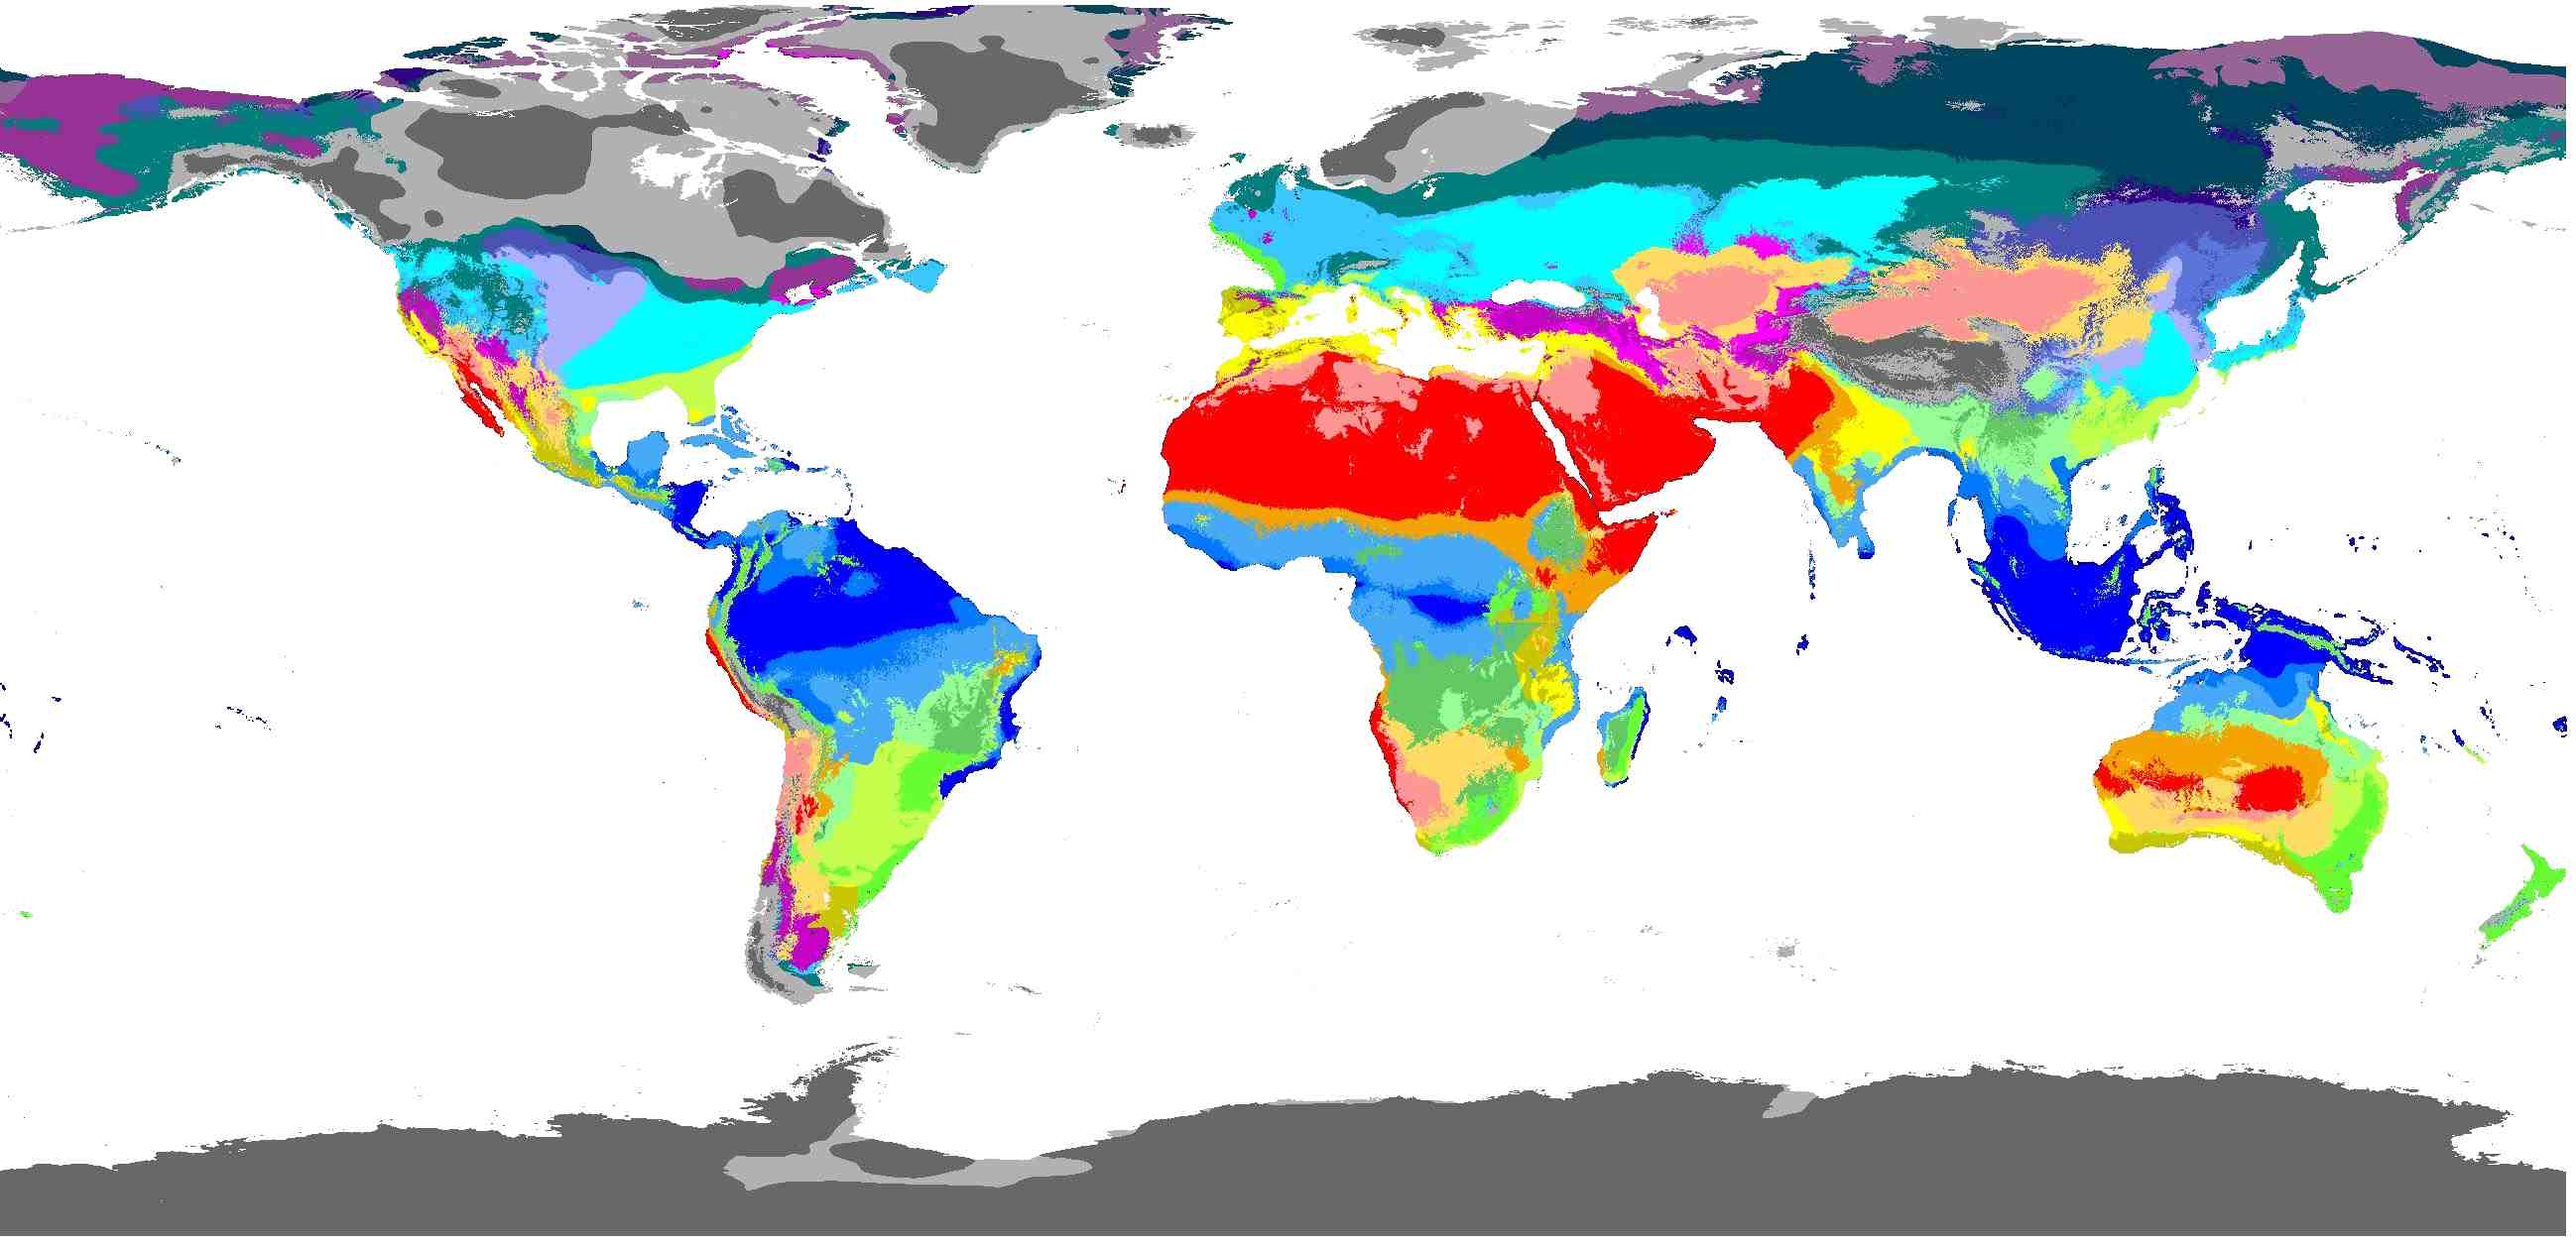
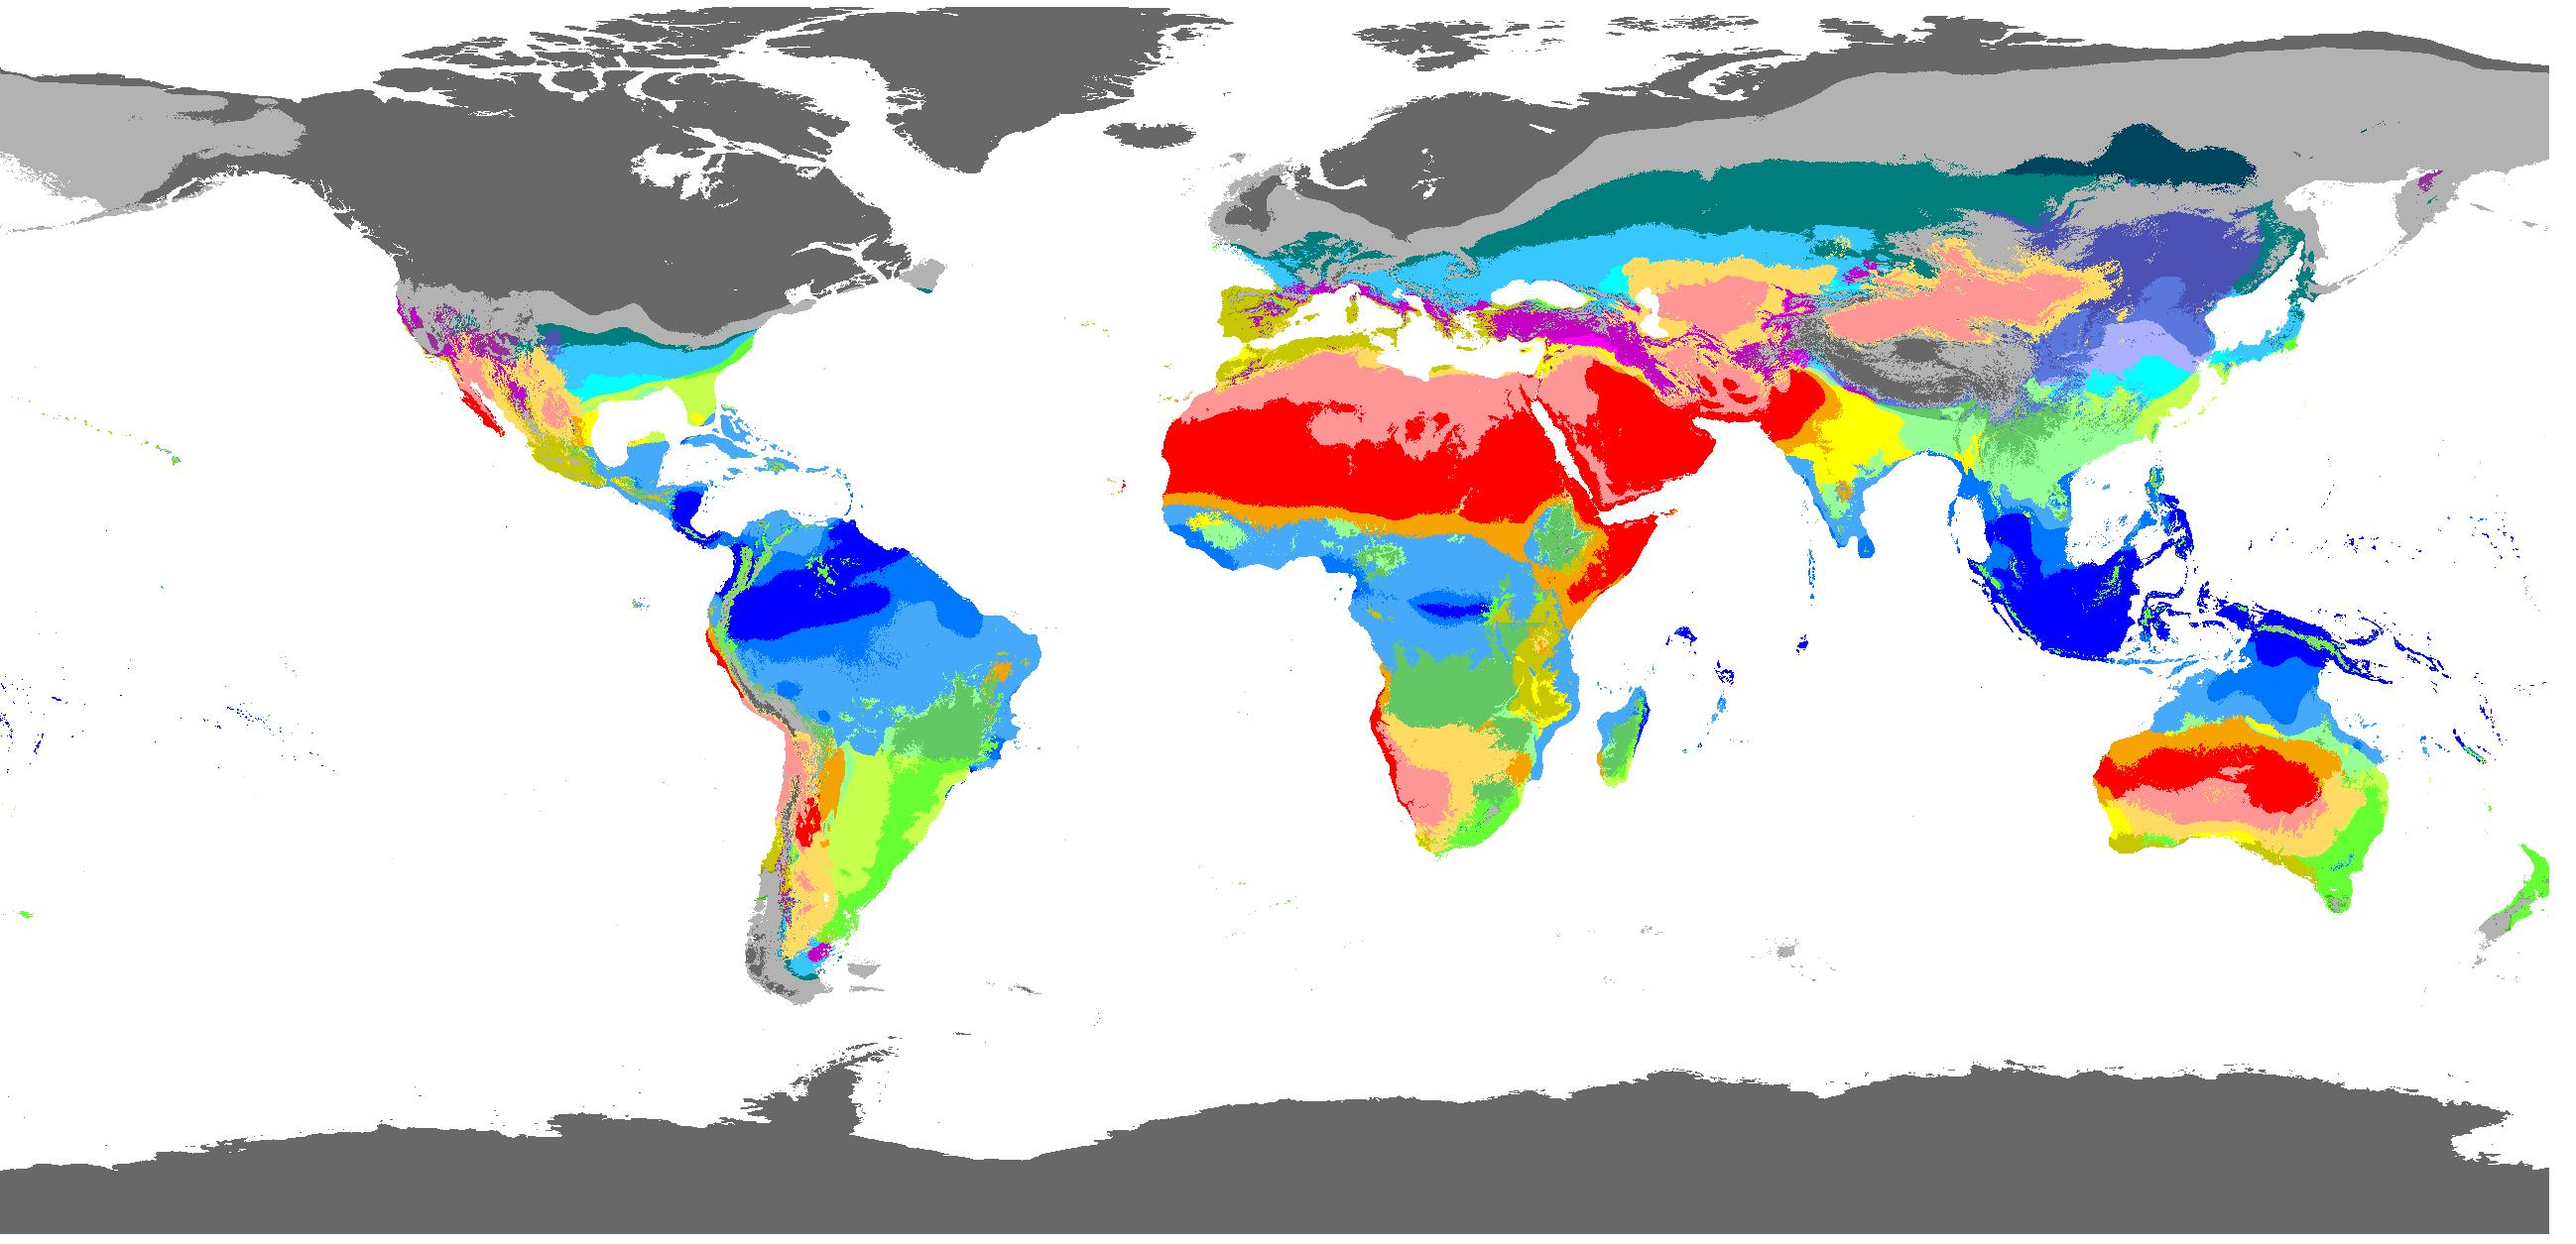
use PMIP3_MPI_ESM_P for LGM example

diff --git a/KoppenClimate/Program.cs b/KoppenClimate/Program.cs
@@ -24,7 +24,8 @@ namespace KoppenClimate
         int[] Pthreshold; // 2×MAT + 28 if > 70 % of precipitation falls in summer, otherwise Pthreshold = 2×MAT + 14.Summer(winter) is the six - month period that is warmer(colder) between April - September and October-March.
         int[] hPsummer;
 
-        Boolean PMIP3 = true;
+        Boolean PMIP3_CNRM_CM5 = false;
+        Boolean PMIP3_MPI_ESM_P = true;
 
         static void Main(string[] args)
         {
@@ -35,12 +36,17 @@ namespace KoppenClimate
             String precsFileNames = @"data\CHELSA\CHELSA_prec_";
             String outFileName = "tmp_CHELSA.tif";
 
-            if (koppenGeiger.PMIP3)
+            if (koppenGeiger.PMIP3_CNRM_CM5)
             {
-                tmeansFileNames = @"data\PMIP3\CHELSA_PMIP_CNRM-CM5_tmean_";
-                precsFileNames = @"data\PMIP3\CHELSA_PMIP_CNRM-CM5_prec_";
+                tmeansFileNames = @"data\PMIP3\PMIP3_CNRM_CM5\CHELSA_PMIP_CNRM-CM5_tmean_";
+                precsFileNames = @"data\PMIP3\PMIP3_CNRM_CM5\CHELSA_PMIP_CNRM-CM5_prec_";
                 outFileName = "tmp_PMIP3.tif";
 
+            } else if (koppenGeiger.PMIP3_MPI_ESM_P)
+            {
+                tmeansFileNames = @"data\PMIP3\PMIP3_MPI_ESM_P\CHELSA_PMIP_MPI-ESM-P_tmean_";
+                precsFileNames = @"data\PMIP3\PMIP3_MPI_ESM_P\CHELSA_PMIP_MPI-ESM-P_prec_";
+                outFileName = "tmp_PMIP3_MPI_ESM_P.tif";
             }
 
             GdalConfiguration.ConfigureGdal();
@@ -512,7 +518,7 @@ namespace KoppenClimate
 
         string getFileNameTemp(string tmeansFileNames, int month)
         {
-            if (PMIP3)
+            if (PMIP3_CNRM_CM5 || PMIP3_MPI_ESM_P)
             {
                 return tmeansFileNames + month + "_1.tif";
             }
@@ -524,7 +530,7 @@ namespace KoppenClimate
 
         private string getFileNamePrec(string precsFileNames, int month)
         {
-            if (PMIP3)
+            if (PMIP3_CNRM_CM5 || PMIP3_MPI_ESM_P)
             {
                 return precsFileNames + month + "_1.tif";
             }
@@ -536,7 +542,7 @@ namespace KoppenClimate
 
     int convertTemp(int temp)
         {
-            if (PMIP3) // Temperatures in Kelvin/10
+            if (PMIP3_CNRM_CM5 || PMIP3_MPI_ESM_P) // Temperatures in Kelvin/10
             {
                 return temp / 10 - 273; ;
             }
@@ -548,7 +554,7 @@ namespace KoppenClimate
 
         short convertPrec(short prec)
         {
-            if (PMIP3) // Precipitation in mm/10
+            if (PMIP3_CNRM_CM5 || PMIP3_MPI_ESM_P) // Precipitation in mm/10
             {
                 return (short)(prec / 10);
             }

diff --git a/README.md b/README.md
@@ -1,7 +1,7 @@
 # Köppen Geiger Climate Classification
 Köppen climate classificatior in C#
 
-Example based on CHELSA [last glacial maximum climate](http://chelsa-climate.org/last-glacial-maximum-climate/)
+Example based on CHELSA PMIP3_MPI_ESM_P [last glacial maximum climate](http://chelsa-climate.org/last-glacial-maximum-climate/)
 
 ![last glacial maximum climate](https://github.com/sebastiantomac/koppen_climate_classification/blob/master/doc/k%C3%B6ppen_LGM.jpg)
 
